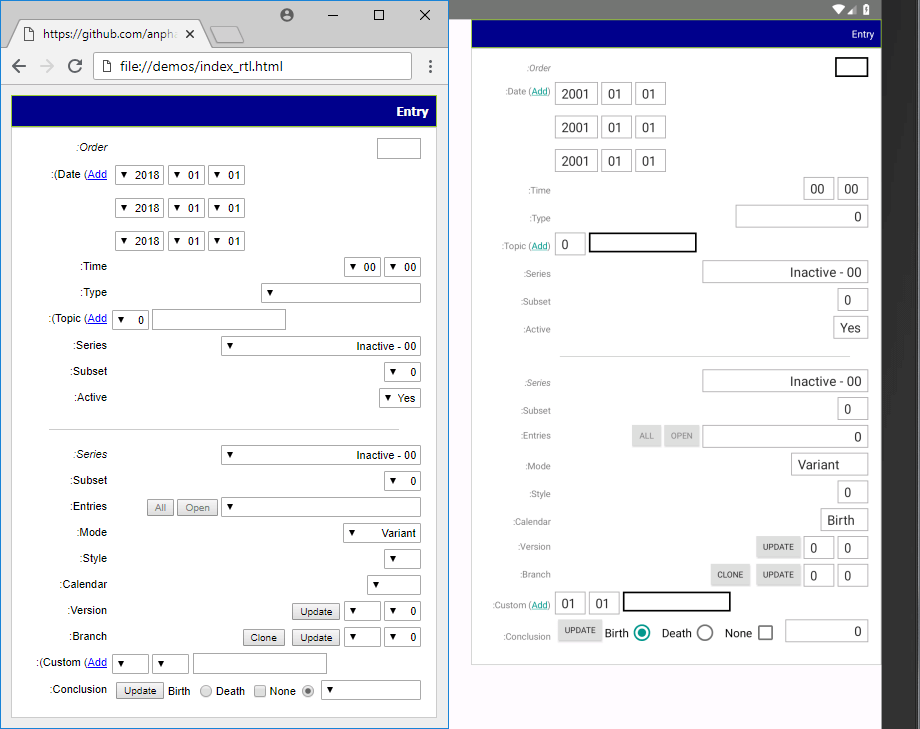
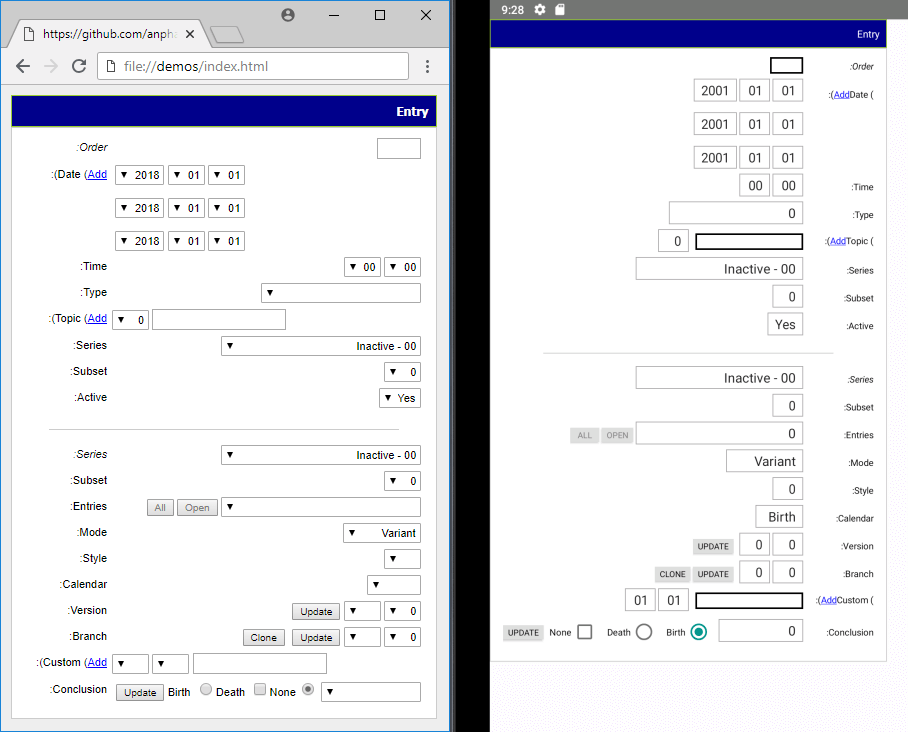
RTL support for new layout scheme.

diff --git a/src/base/node.ts b/src/base/node.ts
@@ -457,6 +457,10 @@ export default abstract class Node implements BoxModel {
         return false;
     }
 
+    public isSet(obj: string, attr: string) {
+        return (this[obj] && this[obj][attr] != null ? hasValue(this[obj][attr]) : false);
+    }
+
     public hasBit(attr: string, bit: number) {
         if (this[attr] != null) {
             return hasBit(this[attr], bit);
@@ -747,8 +751,12 @@ export default abstract class Node implements BoxModel {
         return null;
     }
 
-    public isSet(obj: string, attr: string) {
-        return (this[obj] && this[obj][attr] != null ? hasValue(this[obj][attr]) : false);
+    public actualLeft(dimension = 'linear') {
+        return (this.companion != null ? Math.min(this[dimension].left, this.companion[dimension].left) : this[dimension].left);
+    }
+
+    public actualRight(dimension = 'linear') {
+        return (this.companion != null ? Math.max(this[dimension].right, this.companion[dimension].right) : this[dimension].right);
     }
 
     private boxDocument(region: string, direction: string) {
@@ -1147,41 +1155,36 @@ export default abstract class Node implements BoxModel {
     }
 
     get previousElementSibling() {
-        if (this._element != null) {
-            let element: Null<Element> = <Element> this._element.previousSibling;
-            while (element != null) {
-                if (isPlainText(element) || element instanceof HTMLElement || element.tagName === 'BR') {
-                    return element;
-                }
-                element = <Element> element.previousSibling;
+        let element = <Element> this.baseElement.previousSibling;
+        while (element != null) {
+            if (isPlainText(element) || element instanceof HTMLElement || element.tagName === 'BR') {
+                return element;
             }
+            element = <Element> element.previousSibling;
         }
         return null;
     }
     get nextElementSibling() {
-        if (this._element != null) {
-            let element: Null<Element> = <Element> this._element.nextSibling;
-            while (element != null) {
-                if (isPlainText(element) || element instanceof HTMLElement || element.tagName === 'BR') {
-                    return element;
-                }
-                element = <Element> element.nextSibling;
+        let element = <Element> this.baseElement.nextSibling;
+        while (element != null) {
+            if (isPlainText(element) || element instanceof HTMLElement || element.tagName === 'BR') {
+                return element;
             }
+            element = <Element> element.nextSibling;
         }
         return null;
     }
 
     get firstElementChild(): Null<Element> {
-        if (this.hasElement) {
-            for (let i = 0; i < this._element.childNodes.length; i++) {
-                const element = <Element> this._element.childNodes[i];
-                if (element.nodeName.charAt(0) === '#') {
-                    if (isPlainText(element)) {
-                        return element;
-                    }
+        const element = this.baseElement;
+        if (element instanceof HTMLElement) {
+            for (let i = 0; i < element.childNodes.length; i++) {
+                const childElement = <Element> element.childNodes[i];
+                if (childElement instanceof Element) {
+                    return childElement;
                 }
-                else if (element instanceof Element) {
-                    return element;
+                else if (isPlainText(childElement)) {
+                    return childElement;
                 }
             }
         }
@@ -1189,16 +1192,15 @@ export default abstract class Node implements BoxModel {
     }
 
     get lastElementChild(): Null<Element> {
-        if (this.hasElement) {
-            for (let i = this._element.childNodes.length - 1; i >= 0; i--) {
-                const element = <Element> this._element.childNodes[i];
-                if (element.nodeName.charAt(0) === '#') {
-                    if (isPlainText(element)) {
-                        return element;
-                    }
+        const element = this.baseElement;
+        if (element instanceof HTMLElement) {
+            for (let i = element.childNodes.length - 1; i >= 0; i--) {
+                const childElement = <Element> element.childNodes[i];
+                if (childElement instanceof Element) {
+                    return childElement;
                 }
-                else if (element instanceof Element) {
-                    return element;
+                else if (isPlainText(childElement)) {
+                    return childElement;
                 }
             }
         }

diff --git a/src/base/nodelist.ts b/src/base/nodelist.ts
@@ -109,7 +109,7 @@ export default class NodeList<T extends Node> implements Iterable<T> {
         return nodes[0].documentParent;
     }
 
-    public static linearX<T extends Node>(list: T[]) {
+    public static linearX<T extends Node>(list: T[], traverse = true) {
         const nodes = list.filter(node => node.pageflow);
         switch (nodes.length) {
             case 0:
@@ -118,30 +118,33 @@ export default class NodeList<T extends Node> implements Iterable<T> {
                 return true;
             default:
                 const parent = this.documentParent(nodes);
-                if (nodes.every(node => node.documentParent === parent || (node.companion && node.companion.documentParent === parent))) {
-                    const cleared = NodeList.cleared(Array.from(parent.element.children).map(node => getNodeFromElement(node) as T).filter(node => node));
-                    const horizontal = nodes.slice().sort(NodeList.siblingIndex).every((node, index) => {
-                        if (index > 0) {
-                            if (node.companion && node.companion.documentParent === parent) {
-                                node = node.companion as T;
-                            }
-                            const previous = node.previousSibling();
-                            if (previous != null) {
-                                return !node.alignedVertical(previous, cleared);
-                            }
-                        }
-                        return true;
-                    });
-                    if (horizontal) {
-                        return nodes.every(node => {
-                            return !nodes.some(sibling => {
-                                if (sibling !== node && node.linear.top >= sibling.linear.bottom && node.intersectY(sibling.linear)) {
-                                    return true;
+                let horizontal = false;
+                if (traverse) {
+                    if (nodes.every(node => node.documentParent === parent || (node.companion && node.companion.documentParent === parent))) {
+                        const cleared = NodeList.cleared(Array.from(parent.element.children).map(node => getNodeFromElement(node) as T).filter(node => node));
+                        horizontal = nodes.slice().sort(NodeList.siblingIndex).every((node, index) => {
+                            if (index > 0) {
+                                if (node.companion && node.companion.documentParent === parent) {
+                                    node = node.companion as T;
                                 }
-                                return false;
-                            });
+                                const previous = node.previousSibling();
+                                if (previous != null) {
+                                    return !node.alignedVertical(previous, cleared);
+                                }
+                            }
+                            return true;
                         });
                     }
+                }
+                if (horizontal || !traverse) {
+                    return nodes.every(node => {
+                        return !nodes.some(sibling => {
+                            if (sibling !== node && node.linear.top >= sibling.linear.bottom && node.intersectY(sibling.linear)) {
+                                return true;
+                            }
+                            return false;
+                        });
+                    });
                 }
                 return false;
         }

diff --git a/src/android/view.ts b/src/android/view.ts
@@ -3,7 +3,7 @@ import Node from '../base/node';
 import NodeList from '../base/nodelist';
 import { capitalize, convertEnum, convertFloat, convertInt, convertWord, formatPX, isPercent, isUnit, lastIndexOf, withinFraction } from '../lib/util';
 import { calculateBias, generateId, stripId } from './lib/util';
-import { getElementsBetweenSiblings, getNodeFromElement, getStyle } from '../lib/dom';
+import { getElementsBetweenSiblings, getNodeFromElement } from '../lib/dom';
 import API_ANDROID from './customizations';
 import parseRTL from './localization';
 import { BOX_STANDARD, CSS_STANDARD, MAP_ELEMENT, NODE_ALIGNMENT, NODE_PROCEDURE, NODE_RESOURCE, NODE_STANDARD } from '../lib/constants';
@@ -1020,19 +1020,19 @@ export default class View extends Node {
 
     private bindWhiteSpace() {
         if (this.linearHorizontal || this.hasBit('alignmentType', NODE_ALIGNMENT.HORIZONTAL)) {
-            if (!(this.hasBit('alignmentType', NODE_ALIGNMENT.FLOAT) || this.renderParent.hasBit('alignmentType', NODE_ALIGNMENT.FLOAT) && Array.from(this.documentParent.element.children).some(element => getStyle(element).cssFloat !== 'none'))) {
+            if (!this.hasBit('alignmentType', NODE_ALIGNMENT.FLOAT)) {
                 const textIndent = this.toInt('textIndent');
                 const valueBox = this.valueBox(BOX_STANDARD.PADDING_LEFT);
                 let right = this.box.left + (textIndent > 0 ? this.toInt('textIndent')
                                                             : (textIndent < 0 && valueBox[0] === 1 ? valueBox[0] : 0));
                 this.each((node: T) => {
                     if (!node.floating) {
-                        const width = Math.round(node.linear.left - right);
+                        const width = Math.round(node.actualLeft() - right);
                         if (width >= 1) {
                             node.modifyBox(BOX_STANDARD.MARGIN_LEFT, width);
                         }
                     }
-                    right = (node.companion != null && !node.companion.visible ? Math.max(node.linear.right, node.companion.linear.right) : node.linear.right);
+                    right = node.actualRight();
                 }, true);
             }
         }
@@ -1131,10 +1131,10 @@ export default class View extends Node {
     }
 
     get layoutHorizontal() {
-        return (this.linearHorizontal || this.is(NODE_STANDARD.FRAME) || this.hasBit('alignmentType', NODE_ALIGNMENT.HORIZONTAL) || new Set(this.renderChildren.map(node => node.linear.top)).size === 1);
+        return this.linearHorizontal || this.is(NODE_STANDARD.FRAME) || this.hasBit('alignmentType', NODE_ALIGNMENT.HORIZONTAL) || (this.renderChildren.length > 1 && new Set(this.renderChildren.map(node => node.linear.top)).size === 1);
     }
     get layoutVertical() {
-        return (this.linearVertical || this.is(NODE_STANDARD.FRAME) || this.hasBit('alignmentType', NODE_ALIGNMENT.VERTICAL));
+        return this.linearVertical || this.is(NODE_STANDARD.FRAME) || this.hasBit('alignmentType', NODE_ALIGNMENT.VERTICAL) || (this.renderChildren.length > 1 && new Set(this.renderChildren.map(node => node.linear.left)).size === 1);
     }
 
     get linearHorizontal() {

diff --git a/src/android/viewcontroller.ts b/src/android/viewcontroller.ts
@@ -1378,7 +1378,7 @@ export default class ViewController<T extends View> extends Controller<T> {
                     if (current.constraint.marginHorizontal != null) {
                         const item = this.findByStringId(current.constraint.marginHorizontal);
                         if (item) {
-                            const offset = current.linear.left - (item.companion != null && !item.companion.visible ? Math.max(item.linear.right, item.companion.linear.right) : item.linear.right);
+                            const offset = current.linear.left - item.actualRight();
                             if (offset >= 1) {
                                 current.modifyBox(BOX_STANDARD.MARGIN_LEFT, offset);
                             }
@@ -1677,7 +1677,7 @@ export default class ViewController<T extends View> extends Controller<T> {
                                     }
                                     xml += this.renderNode(item as T, group, NODE_STANDARD.RADIO, true);
                                 }
-                                group.android('orientation', (NodeList.linearX(radiogroup) ? AXIS_ANDROID.HORIZONTAL : AXIS_ANDROID.VERTICAL));
+                                group.android('orientation', (NodeList.linearX(radiogroup, false) ? AXIS_ANDROID.HORIZONTAL : AXIS_ANDROID.VERTICAL));
                                 group.alignmentType |= NODE_ALIGNMENT.SEGMENTED;
                                 if (checked !== '') {
                                     group.android('checkedButton', checked);
@@ -1918,16 +1918,11 @@ export default class ViewController<T extends View> extends Controller<T> {
 
     private parseAttributes(node: T) {
         if (node.dir === 'rtl') {
-            switch (node.controlName) {
-                case NODE_ANDROID.RADIO:
-                case NODE_ANDROID.CHECKBOX:
-                    node.android('layoutDirection', 'rtl');
-                    break;
-                default:
-                    if (node.renderChildren.length === 0) {
-                        node.android('textDirection', 'rtl');
-                    }
-                    break;
+            if (node.nodeType < NODE_STANDARD.INLINE) {
+                node.android('textDirection', 'rtl');
+            }
+            else if (node.renderChildren.length > 0) {
+                node.android('layoutDirection', 'rtl');
             }
         }
         for (const name in node.dataset) {

diff --git a/src/base/application.ts b/src/base/application.ts
@@ -241,6 +241,9 @@ export default class Application<T extends Node> {
                     style.overflow = node.style.overflow;
                     element.style.overflow = 'visible';
                 }
+                if (element.dir === 'rtl') {
+                    element.dir = 'ltr';
+                }
             }
             for (const node of this.cache) {
                 node.setBounds();
@@ -252,6 +255,9 @@ export default class Application<T extends Node> {
                     for (const attr in style) {
                         element.style[attr] = style[attr];
                     }
+                }
+                if (element.dir === 'ltr') {
+                    element.dir = 'rtl';
                 }
             }
             for (const node of this.cache) {
@@ -270,12 +276,11 @@ export default class Application<T extends Node> {
                                             node.companion = label;
                                         }
                                         else if (labelParent && label.textElement) {
-                                            node.companion = labelParent;
+                                            node.companion = label;
                                             labelParent.renderAs = node;
                                         }
                                         if (node.companion != null) {
                                             label.hide();
-                                            node.setBounds(false);
                                             return true;
                                         }
                                     }
@@ -590,7 +595,6 @@ export default class Application<T extends Node> {
                         parentY.remove(nodeY);
                         nodeY.hide();
                         nodeY = nodeY.renderAs as T;
-                        nodeY.parent = parentY;
                     }
                     if (!nodeY.hasBit('excludeSection', APP_SECTION.DOM_TRAVERSE)) {
                         const linearVertical = parentY.linearVertical;

diff --git a/src/android/resource-view.ts b/src/android/resource-view.ts
@@ -337,7 +337,7 @@ export default class ResourceView<T extends View> extends Resource<T> {
                 backgroundPosition = backgroundPosition.filter(value => value !== '');
                 const method = METHOD_ANDROID['boxStyle'];
                 const companion = node.companion;
-                if (companion && !cssFromParent(companion.element, 'backgroundColor')) {
+                if (companion && companion.hasElement && !cssFromParent(companion.element, 'backgroundColor')) {
                     const boxStyle: BoxStyle = getElementCache(companion.element, 'boxStyle');
                     if (Array.isArray(boxStyle.backgroundColor) && boxStyle.backgroundColor.length > 0) {
                         stored.backgroundColor = ResourceView.addColor(boxStyle.backgroundColor[0], boxStyle.backgroundColor[2]);

diff --git a/src/lib/dom.ts b/src/lib/dom.ts
@@ -151,7 +151,7 @@ export function cssParent(element: Element, attr: string, ...styles: string[]) {
 }
 
 export function cssFromParent(element: Element, attr: string) {
-    if (element && element.parentElement != null) {
+    if (element instanceof HTMLElement && element.parentElement != null) {
         const node = getNodeFromElement(element);
         const style = getStyle(element);
         return (style && style[attr] === getStyle(element.parentElement)[attr] && (node == null || node.styleMap[attr] == null));

diff --git a/README.md b/README.md
@@ -388,7 +388,7 @@ The attributes "include" and "include-end" can only be applied to elements which
                     android:layout_toEndOf="@+id/textview_18"
                     android:layout_width="wrap_content"
                     android:singleLine="true"
-                    android:text="@string/__symbol38870"
+                    android:text="@string/__symbol94195"
                     style="@style/Plaintext" />
             </RelativeLayout>
             <RelativeLayout
@@ -540,7 +540,7 @@ The attributes "include" and "include-end" can only be applied to elements which
                     android:layout_toEndOf="@+id/textview_21"
                     android:layout_width="wrap_content"
                     android:singleLine="true"
-                    android:text="@string/__symbol38870"
+                    android:text="@string/__symbol94195"
                     style="@style/Plaintext" />
             </RelativeLayout>
             <LinearLayout
@@ -973,7 +973,7 @@ The attributes "include" and "include-end" can only be applied to elements which
                     android:layout_toEndOf="@+id/textview_24"
                     android:layout_width="wrap_content"
                     android:singleLine="true"
-                    android:text="@string/__symbol38870"
+                    android:text="@string/__symbol94195"
                     style="@style/Plaintext" />
             </RelativeLayout>
             <LinearLayout
@@ -1102,7 +1102,7 @@ The attributes "include" and "include-end" can only be applied to elements which
     <string name="app_name">androme_ui</string>
     <string name="__00_inactive">00 - Inactive</string>
     <string name="__01_active">01 - Active</string>
-    <string name="__symbol38870">):</string>
+    <string name="__symbol94195">):</string>
     <string name="active">Active:</string>
     <string name="add"><u>Add</u></string>
     <string name="all">All</string>
@@ -1409,7 +1409,7 @@ The attributes "include" and "include-end" can only be applied to elements which
     <dimen name="button_padding_horizontal">6dp</dimen>
     <dimen name="button_padding_vertical">1dp</dimen>
     <dimen name="checkbox_margin_end">3dp</dimen>
-    <dimen name="checkbox_margin_start">7dp</dimen>
+    <dimen name="checkbox_margin_start">8dp</dimen>
     <dimen name="checkbox_margin_vertical">3dp</dimen>
     <dimen name="div_margin_start">3dp</dimen>
     <dimen name="form_padding_horizontal">11dp</dimen>
